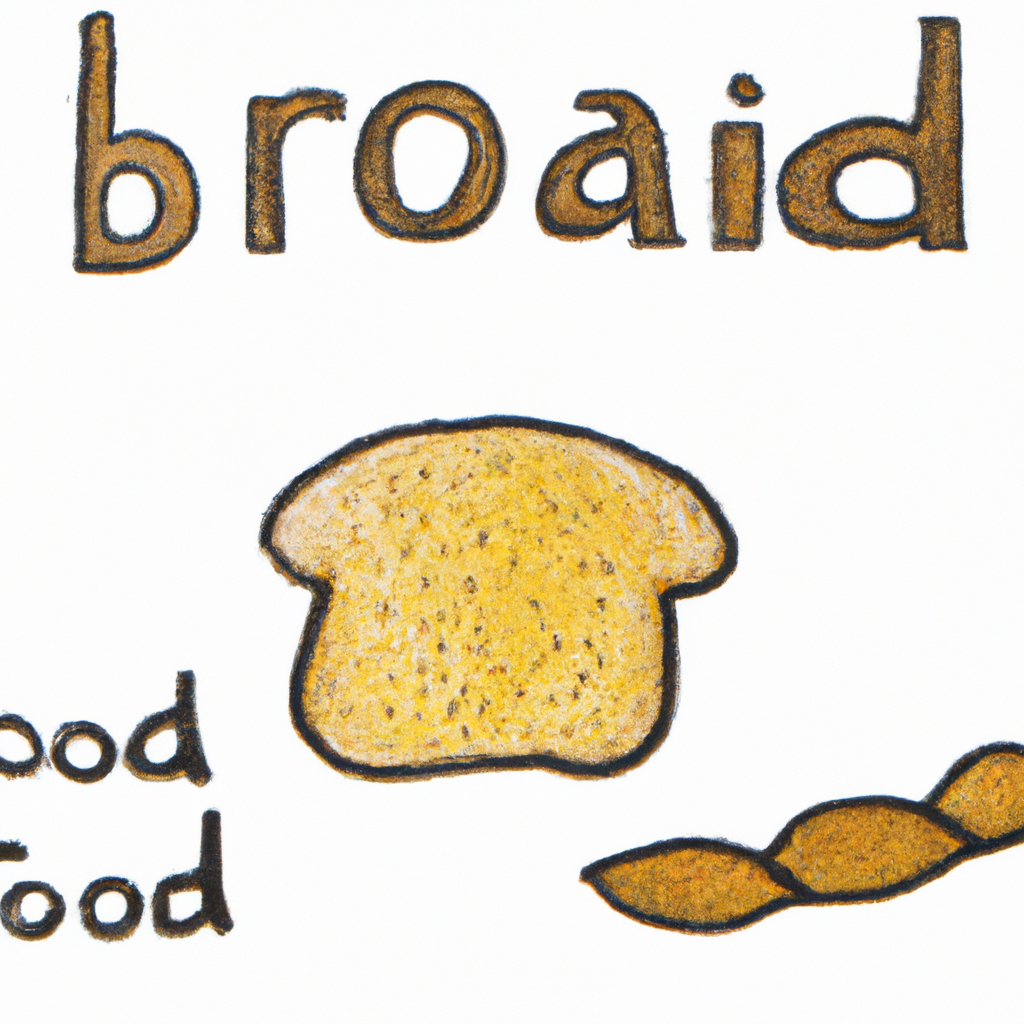
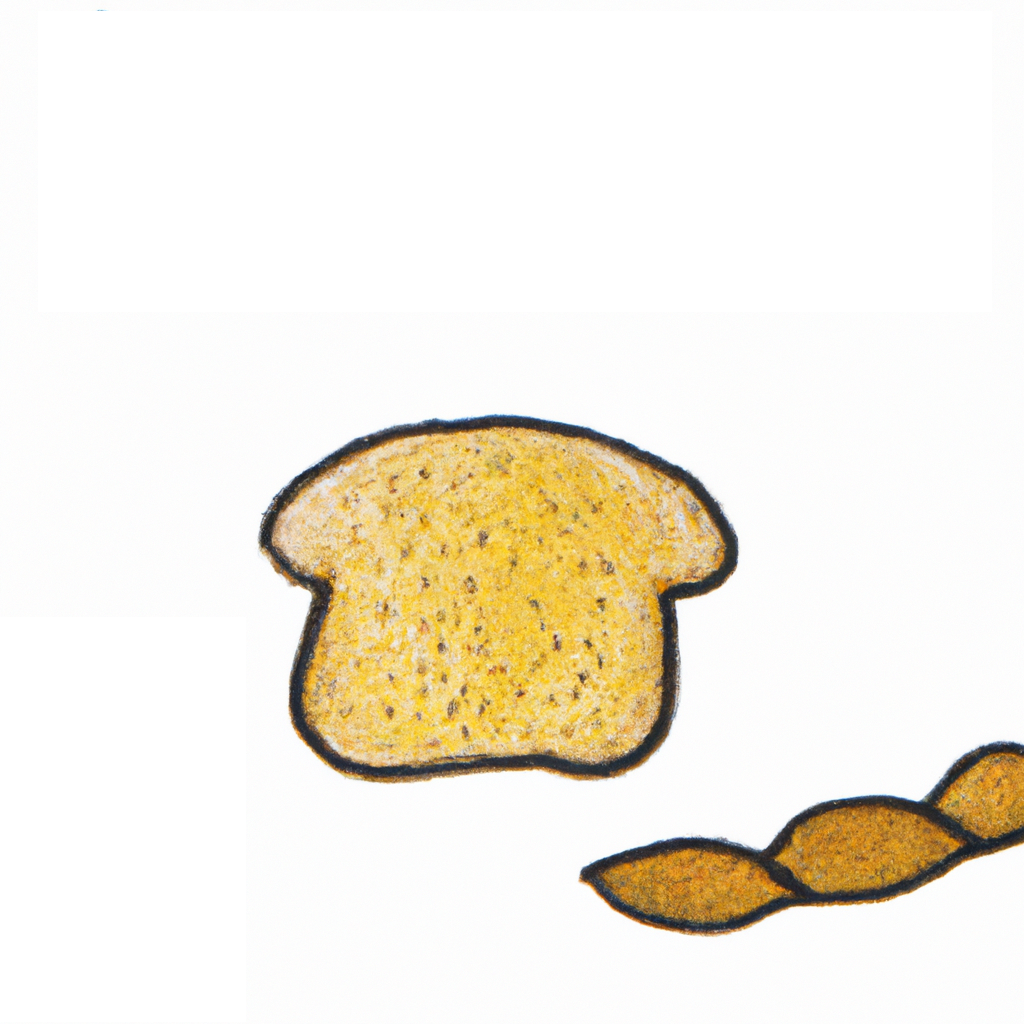
more images, removed labels, increased grid

Changed region(s): [[0.0625, 0.0, 0.9688, 0.2812], [0.0, 0.6562, 0.25, 0.9375]]

diff --git a/src/Card.tsx b/src/Card.tsx
@@ -1,16 +1,100 @@
 import React from "react";
 
+function BrushStroke(props: any) {
+  return (
+    <svg {...props} version="1.0" xmlns="http://www.w3.org/2000/svg"
+     width="60.000000pt" height="80.000000pt" viewBox="0 0 1200.000000 1280.000000"
+     preserveAspectRatio="xMidYMid meet" fill="currentColor">
+    <metadata>
+    Created by potrace 1.15, written by Peter Selinger 2001-2017
+    </metadata>
+    <g transform="translate(0.000000,1280.000000) scale(0.100000,-0.100000)" stroke="none">
+      <path d="M11661 12784 c-6 -10 -32 -62 -58 -114 -50 -99 -74 -119 -100 -84 -7
+        10 -13 32 -13 50 0 42 -43 94 -76 94 -33 0 -67 -38 -116 -128 -74 -134 -115
+        -162 -156 -104 -16 22 -18 38 -14 85 4 47 1 62 -14 78 -17 18 -26 20 -87 14
+        -63 -7 -70 -5 -94 16 l-25 24 6 -30 c13 -66 15 -125 7 -169 -11 -61 -18 -67
+        -43 -33 -25 34 -59 52 -116 62 -42 7 -79 40 -96 89 -10 30 -21 9 -45 -84 -12
+        -47 -27 -100 -32 -117 l-11 -33 -92 0 c-219 0 -490 -48 -1426 -255 -184 -40
+        -375 -81 -425 -89 -49 -9 -100 -19 -112 -21 -18 -4 -23 -1 -23 15 0 11 -2 20
+        -4 20 -3 0 -38 -7 -78 -15 -99 -21 -292 -48 -608 -85 -771 -89 -1085 -159
+        -1376 -305 l-124 -62 -26 58 c-35 76 -103 140 -175 164 -29 10 -60 22 -67 28
+        -20 16 -23 3 -13 -44 13 -56 14 -160 2 -192 -8 -21 -17 -25 -71 -29 -36 -3
+        -67 -11 -76 -20 -8 -8 -19 -45 -25 -82 -14 -104 -42 -142 -139 -191 -19 -10
+        -53 -27 -74 -37 -227 -114 -880 -53 -1421 134 -104 36 -289 120 -299 137 -15
+        23 -36 9 -61 -39 -57 -112 -119 -154 -245 -165 -99 -9 -131 -19 -165 -55 -36
+        -38 -46 -38 -39 0 7 35 6 35 -32 15 -65 -34 -235 -17 -639 64 -238 48 -414 67
+        -492 54 -78 -14 -88 -21 -72 -56 10 -22 9 -31 -5 -52 -9 -14 -28 -31 -41 -37
+        -41 -18 -61 11 -106 156 -22 72 -53 151 -67 176 l-27 45 -6 -125 c-12 -239
+        -71 -457 -150 -559 l-19 -24 0 42 c0 22 -4 41 -9 41 -6 0 -70 -91 -144 -202
+        -79 -120 -154 -222 -183 -248 l-49 -45 -3 114 -3 115 -32 -49 c-18 -27 -51
+        -63 -75 -80 -42 -29 -48 -30 -168 -33 l-125 -4 -52 40 c-29 21 -92 74 -142
+        116 -100 85 -210 146 -279 153 -59 7 -126 -18 -178 -65 -21 -19 -41 -33 -43
+        -30 -3 2 -23 85 -46 184 -23 98 -52 226 -66 284 -13 58 -27 120 -30 138 -3 17
+        -9 32 -14 32 -27 0 -33 -154 -69 -1785 -66 -2976 -66 -5453 1 -6895 20 -451
+        68 -1004 100 -1174 5 -27 9 -104 9 -172 0 -68 2 -124 5 -124 2 0 16 5 30 12
+        19 9 28 9 37 0 18 -18 43 -15 63 8 23 26 35 17 35 -26 0 -38 -15 -43 -66 -24
+        -35 14 -38 9 -19 -26 8 -16 15 -44 15 -62 0 -42 -29 -184 -40 -195 -4 -5 -13
+        15 -19 45 -26 118 -53 190 -85 226 -41 44 -69 40 -60 -10 28 -155 61 -220 143
+        -284 32 -25 69 -64 82 -87 22 -39 24 -40 27 -17 2 14 -1 47 -8 75 -11 47 -10
+        55 20 133 18 46 43 96 55 110 l23 27 22 -20 c37 -34 42 -54 51 -207 4 -84 14
+        -160 21 -175 10 -21 36 -37 118 -71 58 -24 188 -79 290 -122 237 -100 294
+        -122 410 -159 215 -68 344 -91 521 -91 l122 0 -5 -65 -6 -64 48 24 c26 13 96
+        38 154 54 58 16 127 41 152 55 l45 25 10 -25 c12 -34 39 -199 39 -246 0 -21 5
+        -38 10 -38 6 0 10 4 10 10 0 5 18 23 40 39 90 65 315 106 551 99 l147 -4 4
+        198 c2 109 8 201 12 205 13 13 41 -13 53 -51 7 -21 20 -96 28 -168 17 -141 25
+        -168 55 -168 25 0 28 6 40 91 15 103 28 147 51 170 18 18 22 18 47 5 15 -8 43
+        -30 61 -50 43 -44 68 -46 82 -6 6 16 15 30 19 30 9 0 33 -61 48 -120 l9 -35 7
+        30 c4 17 12 40 17 53 9 23 9 23 39 5 27 -16 32 -16 40 -3 14 22 12 77 -5 139
+        -8 30 -11 59 -8 65 16 27 76 96 84 96 23 0 44 -182 29 -260 -6 -30 -6 -58 -2
+        -62 21 -21 289 -105 532 -166 362 -93 628 -135 860 -136 163 -1 224 8 264 37
+        16 12 17 17 3 70 -8 31 -31 78 -50 104 -41 58 -63 122 -76 223 -8 66 -7 80 11
+        118 19 40 40 53 53 32 10 -16 36 -12 51 8 12 15 13 13 14 -20 0 -49 26 -182
+        41 -210 6 -13 31 -43 54 -68 50 -52 71 -107 89 -228 13 -94 26 -98 27 -8 1 34
+        4 86 8 116 l7 55 13 -77 c8 -43 17 -78 21 -78 6 0 135 146 167 189 2 3 20 -12
+        41 -33 40 -42 115 -80 141 -71 36 11 93 85 156 205 76 143 91 163 120 157 21
+        -3 21 0 18 112 -3 110 -2 114 12 84 8 -18 17 -33 20 -33 3 0 19 22 36 50 17
+        27 37 50 44 50 7 0 15 -17 19 -40 7 -45 17 -48 64 -20 45 28 71 91 79 189 l6
+        80 24 -67 c45 -123 54 -171 42 -230 -10 -48 -9 -55 8 -67 28 -22 62 -18 74 8
+        8 17 6 33 -10 71 -12 26 -21 52 -21 57 0 21 59 7 107 -26 29 -19 64 -35 78
+        -35 31 0 58 40 81 119 15 51 15 56 -6 123 -25 78 -22 98 15 98 60 0 82 -37
+        109 -180 25 -128 22 -162 -19 -222 -19 -28 -32 -55 -30 -58 6 -10 89 6 130 26
+        45 21 103 81 145 150 32 53 33 57 16 69 -16 13 -16 15 5 57 61 120 150 216
+        449 483 118 106 231 210 251 231 80 85 171 209 208 282 62 124 63 129 30 298
+        l-29 149 41 95 c51 118 63 132 55 65 -3 -27 -10 -142 -16 -255 -6 -113 -12
+        -234 -15 -270 -2 -36 -7 -110 -11 -164 l-7 -99 44 7 c237 38 699 99 884 117
+        362 33 615 17 716 -46 29 -19 39 -34 52 -82 21 -72 22 -261 3 -376 -9 -54 -9
+        -76 -2 -74 17 5 47 75 58 136 20 106 31 136 53 136 17 0 20 -8 23 -55 2 -30
+        -2 -88 -8 -128 -6 -41 -10 -76 -7 -78 2 -3 17 -6 33 -7 29 -2 29 -1 28 53 0
+        30 -5 102 -12 160 -6 58 -14 213 -18 344 -6 216 -5 239 9 233 9 -3 34 -11 57
+        -17 l41 -11 -2 -105 c-1 -58 1 -107 4 -110 2 -3 14 60 27 138 43 283 88 407
+        134 369 6 -5 36 -19 66 -32 49 -19 80 -23 280 -29 124 -4 233 -11 243 -15 33
+        -14 14 -139 -38 -254 -14 -29 -25 -55 -25 -57 0 -2 11 -4 24 -4 13 0 30 -7 37
+        -17 12 -14 15 -9 20 46 4 45 12 68 29 86 16 17 26 44 31 82 13 95 57 200 104
+        250 l43 44 102 -3 101 -3 33 36 c67 72 62 5 101 1364 20 682 42 1456 50 1720
+        8 264 31 1020 50 1680 19 660 42 1430 50 1710 21 717 53 1867 65 2340 16 661
+        22 845 27 845 13 0 63 -32 63 -40 0 -6 5 -10 10 -10 13 0 4 40 -20 97 -13 30
+        -26 44 -45 49 -49 12 -55 -5 -62 -194 -5 -130 -10 -175 -20 -184 -21 -17 -30
+        3 -38 85 -6 56 -12 75 -33 95 -23 24 -24 30 -19 102 11 138 68 239 145 256 43
+        9 49 12 23 13 -14 1 -44 20 -72 46 -67 62 -78 55 -104 -70 -13 -61 -26 4 -34
+        173 -6 117 -13 176 -23 197 -15 27 -16 28 -27 9z"/>
+    </g>
+  </svg>)
+}
 
 export type CardState = {
   id: string,
   word?: string,
   picture?: string,
+
+  glyph?: string,
+
   selected?: boolean,
   hidden?: boolean,
   shake?: boolean,
   src: {
     words: string[],
     pictures: string[],
+    props?: any
   }
   // sound?: string,
   // position: {x: number, y: number},
@@ -21,11 +105,15 @@ export default function Card({card, ...props}: any) {
   props.className = `card ${card.picture ? 'picture' : 'word'} ${props.className || ''}`
   return (
       <div {...props} >
-        {card.picture?
-              <img src={`/img/${card.picture}`} alt={card.id} onDragStart={(e)=> e.preventDefault()}/>
-              :
-              <span>{card.word}</span>
-            }
+        {card.color?
+          <BrushStroke style={{color: card.color}} />
+        : card.picture?
+          <img src={`/img/${card.picture}`} alt={card.id} onDragStart={(e)=> e.preventDefault()}/>
+        : card.glyph?
+          <span className="glyph">{card.glyph}</span>
+        : card.word?
+          <span>{card.word}</span>
+        : null}
       </div>
   );
 }

diff --git a/src/App.tsx b/src/App.tsx
@@ -32,6 +32,18 @@ function intersection<T>(a: Array<T>, b: Array<T>): Array<T> {
   return a.filter((x) => b.includes(x));
 }
 
+const speak = (word: string) => {
+    const voices = speechSynthesis.getVoices();
+    const voice = voices.find((v) => v.name === 'Google US English');
+    const utterance = new SpeechSynthesisUtterance(word);
+    utterance.voice = voice || null;
+    utterance.pitch = 1.0 + Math.random() * 0.2;
+    utterance.rate = 0.7 + Math.random() * 0.3;
+    utterance.lang = 'en-US'
+
+    speechSynthesis.speak(utterance);
+  };
+
 function App() {
   const wordsPairs = [
     {words: ['car'], pictures: ['car-1.png', 'car-2.png', 'car-3.png', 'car-4.png']},
@@ -52,7 +64,7 @@ function App() {
     {words: ['chair'], pictures: ['chair.png', 'chair-2.png']},
     {words: ['chicken'], pictures: ['chicken-1672572083.png', 'chicken-1672572060.png']},
     {words: ['elephant'], pictures: ['elephant.png', 'elephant-2.png']},
-    {words: ['fish'], pictures: ['fish-1672641718.png']},
+    {words: ['fish'], pictures: ['fish-1672641718.png', 'fish-2.png', 'fish-3.png', 'fish-4.png', 'fish-5.png']},
     {words: ['meat'], pictures: ['meat.png', 'meat-1672572304.png']},
     {words: ['milk'], pictures: ['milk-1.png', 'milk-2.png', 'milk-3.png']},
     {words: ['pizza'], pictures: ['pizza.png', 'pizza-2.png']},
@@ -60,14 +72,39 @@ function App() {
     {words: ['flower'], pictures: ['flower-1.png', 'flower-2.png', 'flower-3.png', 'flower-4.png', 'flower-5.png',
         'flower-7.png', 'flower-8.png', 'flower-9.png', 'flower-10.png', 'flower-11.png', 'flower-12.png',
         'flower-13.png', 'flower-14.png', 'flower-15.png']},
+    {words: ['yellow'], pictures: [], color: 'yellow'},
+    {words: ['red'], pictures: [], color: 'red'},
+    {words: ['blue'], pictures: [], color: 'blue'},
+    {words: ['green'], pictures: [], color: 'green'},
+    {words: ['orange'], pictures: [], color: 'orange'},
+    // {words: ['white'], pictures: [], color: 'white'},
+    {words: ['black'], pictures: [], color: 'black'},
+    {words: ['purple'], pictures: [], color: 'purple'},
+    {words: ['brown'], pictures: [], color: 'brown'},
+    {words: ['pink'], pictures: [], color: 'pink'},
+    {words: ['gray'], pictures: [], color: 'gray'},
+
+    {words: ['zero'], pictures: [], glyph: '0'},
+    {words: ['one'], pictures: [], glyph: '1'},
+    {words: ['two'], pictures: [], glyph: '2'},
+    {words: ['three'], pictures: [], glyph: '3'},
+    {words: ['four'], pictures: [], glyph: '4'},
+    {words: ['five'], pictures: [], glyph: '5'},
+    {words: ['six'], pictures: [], glyph: '6'},
+    {words: ['seven'], pictures: [], glyph: '7'},
+    {words: ['eight'], pictures: [], glyph: '8'},
+    {words: ['nine'], pictures: [], glyph: '9'},
+
+    {words: ['smile'], pictures: [], glyph: '😀'},
 
   ]
-  const gridSideSize = 4;
-  const gridSize = gridSideSize * gridSideSize;
+  const gridWidth = 6;
+  const gridHeight = 5;
+  const gridSize = gridWidth * gridHeight;
   const selectedWordsPairs = shuffle(wordsPairs).slice(0, Math.floor(gridSize / 2));  // 8 words
   const cardDefs = selectedWordsPairs.map((pair, i) => [
     {id: `word-${i}`, word: choice(pair.words), picture: undefined, src: pair},
-    {id: `pic-${i}`, picture: choice(pair.pictures), src: pair},
+    {id: `pic-${i}`, picture: choice(pair.pictures), color: pair.color, glyph: pair.glyph, src: pair},
   ]);
   const cardsArray: Array<CardState> = shuffle(cardDefs[0].concat(...cardDefs.slice(1)).map((card, i) => (
     {
@@ -77,22 +114,8 @@ function App() {
   // shuffled
   const [cards, setCards] = useState(cardsArray);
   const [selected, setSelected] = useState<CardState | undefined>(undefined);
-  const grid = []
-  const rowSize = 4
-  for (let i = 0; i < cards.length; i += rowSize) {
-    grid.push(cards.slice(i, i + rowSize))
-  }
-  const speak = (word: string) => {
-    const voices = speechSynthesis.getVoices();
-    const voice = voices.find((v) => v.name === 'Google US English');
-    const utterance = new SpeechSynthesisUtterance(word);
-    utterance.voice = voice || null;
-    utterance.pitch = 1.0 + Math.random() * 0.2;
-    utterance.rate = 0.7 + Math.random() * 0.3;
-    utterance.lang = 'en-US'
+  const grid = chunks(cards, gridWidth);
 
-    speechSynthesis.speak(utterance);
-  };
   return (
     <div className="App">
       {
@@ -103,8 +126,8 @@ function App() {
                 <Card
                   card={card}
                   key={card.id}
-                  className={`${card.selected ? 'selected' : ''} ${card.hidden ? 'hidden' : ''} ${card.shake ? 'shake' : ''}`}
-
+                  className={`${card.selected ? 'selected' : ''} ${card.hidden ? 'hidden' : ''} ${card.shake ? 'shake' : ''} ${card.src.props?.className || ''}`}
+                  style={card.src.props?.css||{}}
                   onClick={() => {
                     if (selected && selected.id !== card.id) {
                       if (intersection(selected.src.words, card.src.words).length > 0) {

diff --git a/src/index.css b/src/index.css
@@ -82,3 +82,11 @@ code {
 .react-draggable.card {
   position: absolute;
 }
+
+.glyph {
+    font-weight: bold;
+    font-size: 4rem;
+    color: #333;
+    /*font-style: italic;*/
+    font-family: monospace;
+}
